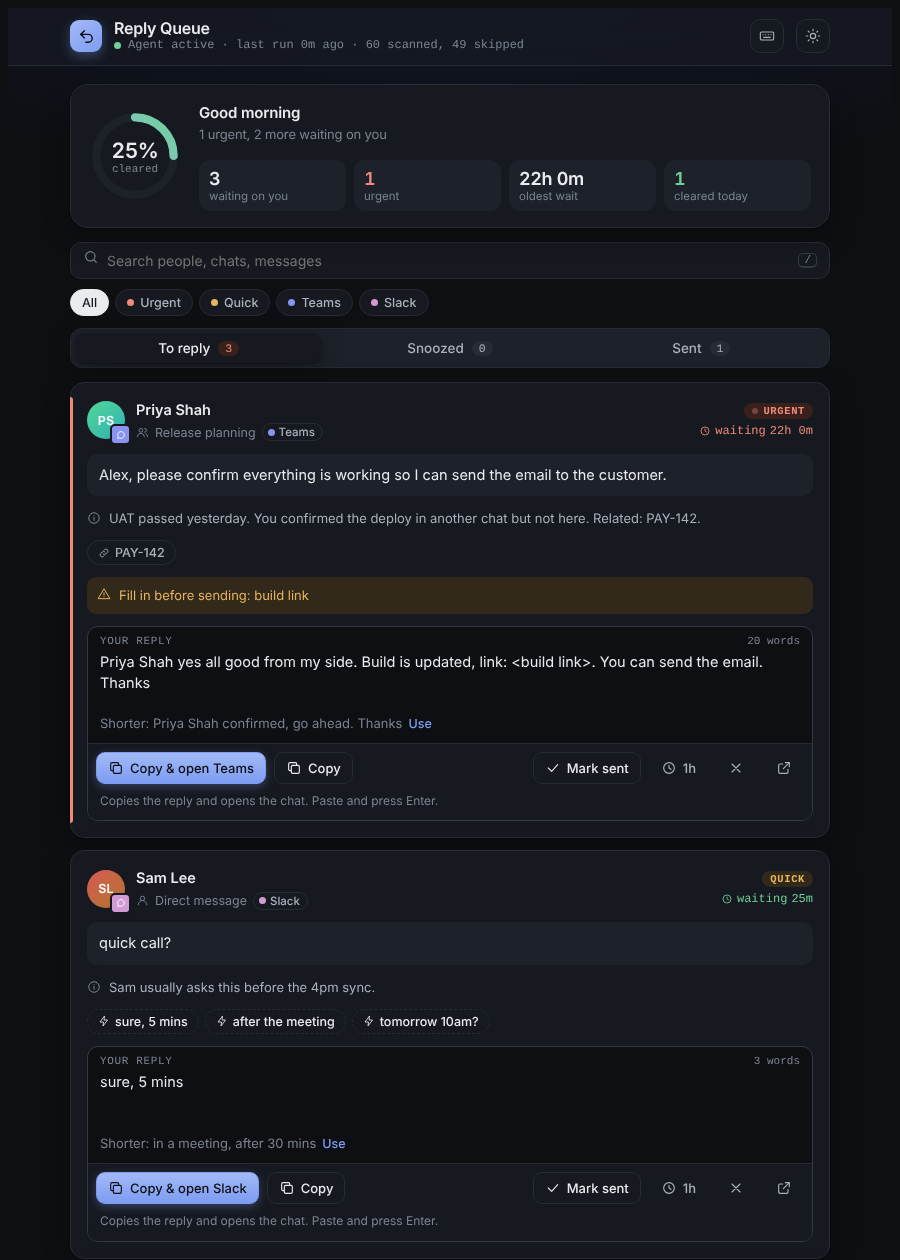
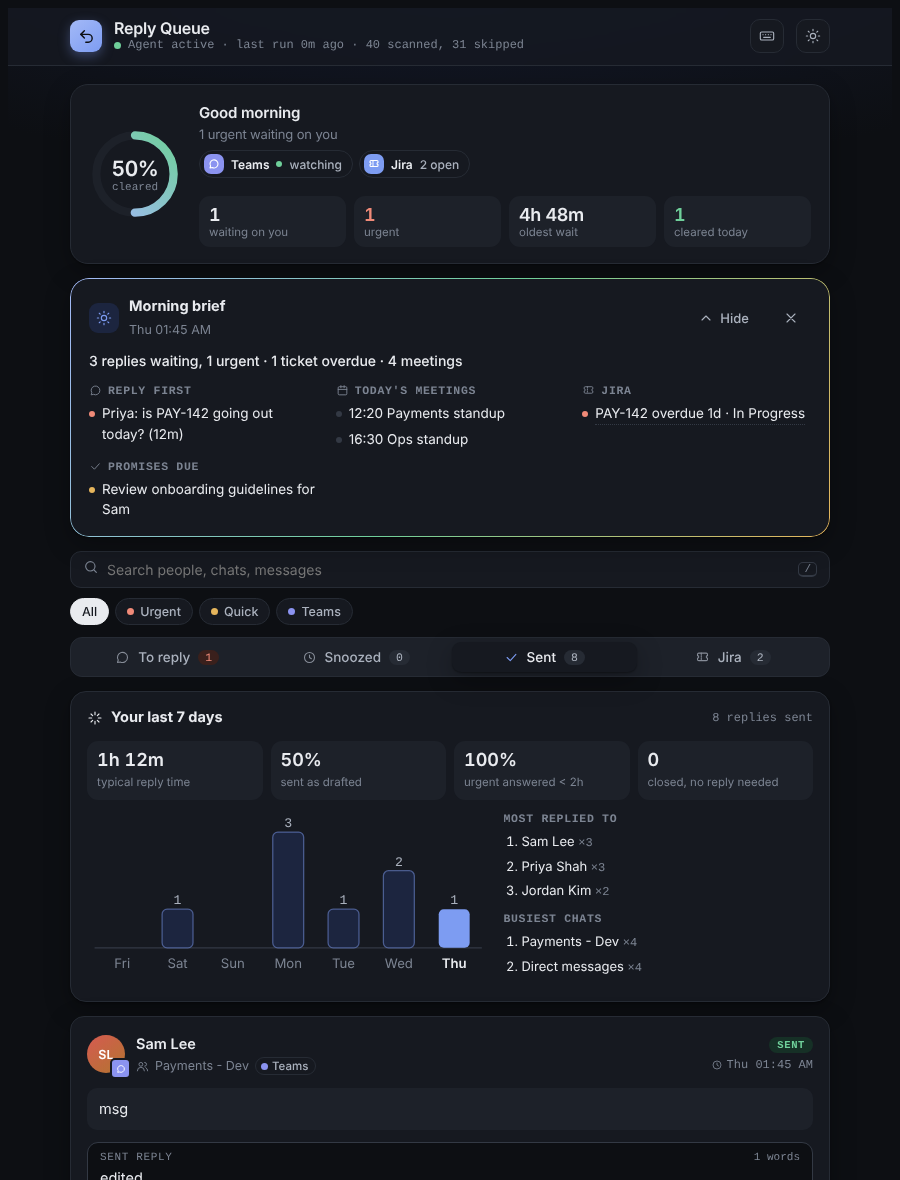
Release 0.2.0: changelog, release notes, refreshed screenshots
Claude-Session: https://claude.ai/code/session_01EFj8VY4Z8BANSpZk8RyRg4

diff --git a/CHANGELOG.md b/CHANGELOG.md
@@ -1,0 +1,28 @@
+# Changelog
+
+## 0.2.0
+
+### Added
+- **Morning brief and end-of-day wrap.** The new `/reply-brief` skill pins them to the top of the Reply Queue: what to reply to first, meetings, due tickets, promises, and a standup draft.
+- **Jira tab.** Your open tickets, live, with priority, type, status, epic, due date and stale flags. You can filter, sort and group them.
+- **Ask Jira.** Plain-English questions are turned into JQL. Results show To do / In progress / Done cards, a per-assignee chart and filters (My tasks, type, priority, overdue, project).
+- **Jira quick actions.** Move a ticket's status or comment on it from the tab. Both need a confirm click.
+- **Write my standup.** Drafts your standup in your voice from Jira activity and the replies you sent.
+- **Live Jira status chips** on reply cards for any ticket a message mentions.
+- **PR review queue.** Review requests people send you in chat, with their age and a "Mark reviewed" button.
+- **Insights** on the Sent tab: typical reply time, % sent as drafted, urgent answered within 2h, busiest people and chats, and a 7-day chart.
+- **Cloud copy of the knowledge base.** Hourly runs keep full context while your computer sleeps.
+- **Instant alerts recipe** for VIP and urgent messages: Power Automate for Teams, Workflow Builder for Slack.
+- **CI.** Manifest, skill, page-script and secret checks run on every push.
+
+### Changed
+- Reply Queue redesign: today panel with progress ring, search, filters, keyboard shortcuts, motion, light/dark toggle, platform badges and tab icons.
+- Jira stats and banner follow the selected project.
+- **Jira credit guard.** The skills use only plain Jira tools, never Rovo cross-product search, so normal use costs no Rovo credits.
+
+### Fixed
+- "Mark sent" now asks again if the reply still contains a `<placeholder>`.
+- Sent and closed cards are removed after 30 days, so the queue stays fast.
+
+## 0.1.0
+- First public release: `/reply-setup` and `/reply-drafts` skills, plus the Reply Queue page with Send in Teams, quick replies, snooze and mark sent.

diff --git a/docs/release-notes-v0.2.0.md b/docs/release-notes-v0.2.0.md
@@ -1,0 +1,26 @@
+**Reply Agent v0.2.0: daily brief, Jira tab, Ask Jira, standups and insights**
+
+Reply Agent watches your work chat, skips the noise and drafts replies in your own voice. You review and send; it never sends on its own.
+
+**What's new**
+
+- 🌅 **Morning brief and day wrap** (`/reply-brief`), pinned to the top of your Reply Queue
+- 🎫 **Jira tab**: your open tickets, live, with filters, sorting and grouping
+- 💬 **Ask Jira**: "how many tickets closed today?" or "bugs assigned to Sam", answered with status cards and a per-person breakdown
+- ✍ **Write my standup**: drafted in your voice from Jira and the replies you sent
+- 🔀 **Jira quick actions**: move status or comment, each behind a confirm click
+- 🔍 **PR review queue** and **Insights** (reply time, % sent as drafted, 7-day chart)
+- 🌙 **Offline-safe hourly runs** using a cloud copy of your knowledge base
+- 🔔 **Instant VIP alerts recipe** for Teams and Slack
+- ✅ **CI checks** on every push
+
+**Install (Claude Code)**
+
+```
+/plugin marketplace add Zeeshan138063/reply-agent
+/plugin install reply-agent@reply-agent
+```
+
+Cowork: download `reply-agent.plugin` below and add it in Claude's plugin settings.
+
+The full list is in [CHANGELOG.md](https://github.com/Zeeshan138063/reply-agent/blob/main/CHANGELOG.md).

diff --git a/README.md b/README.md
@@ -77,7 +77,7 @@ On older versions:
 
 **Claude Cowork (desktop app)**
 
-Download `reply-agent.plugin` from the [latest release](https://github.com/Zeeshan138063/reply-agent/releases) and add it in Claude's plugin settings. You can also ask Claude to "install the plugin from github.com/Zeeshan138063/reply-agent".
+Download `reply-agent.plugin` (v0.2.0) from the [latest release](https://github.com/Zeeshan138063/reply-agent/releases) and add it in Claude's plugin settings. You can also ask Claude to "install the plugin from github.com/Zeeshan138063/reply-agent".
 
 ## Set up (about 10 minutes)
 
@@ -133,6 +133,10 @@ If your company has rules about AI tools reading work chat, check them before yo
 - [ ] Team mode: shared "who is waiting on whom" board
 - [ ] Prefilled-compose links for Slack and Google Chat
 - [x] Instant VIP alerts recipe (Power Automate / Slack workflows)
+
+## Changelog
+
+See [CHANGELOG.md](CHANGELOG.md).
 
 ## Repository layout
 
